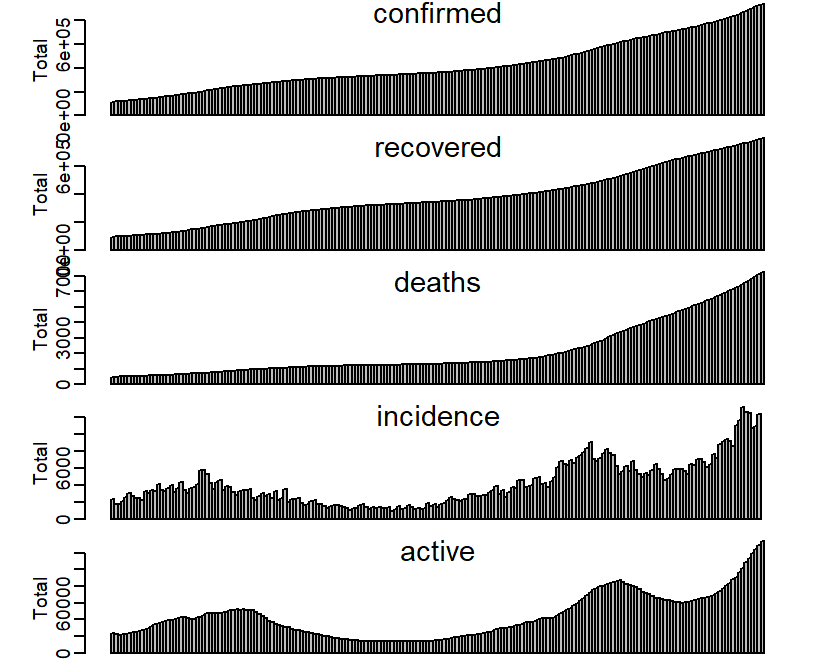
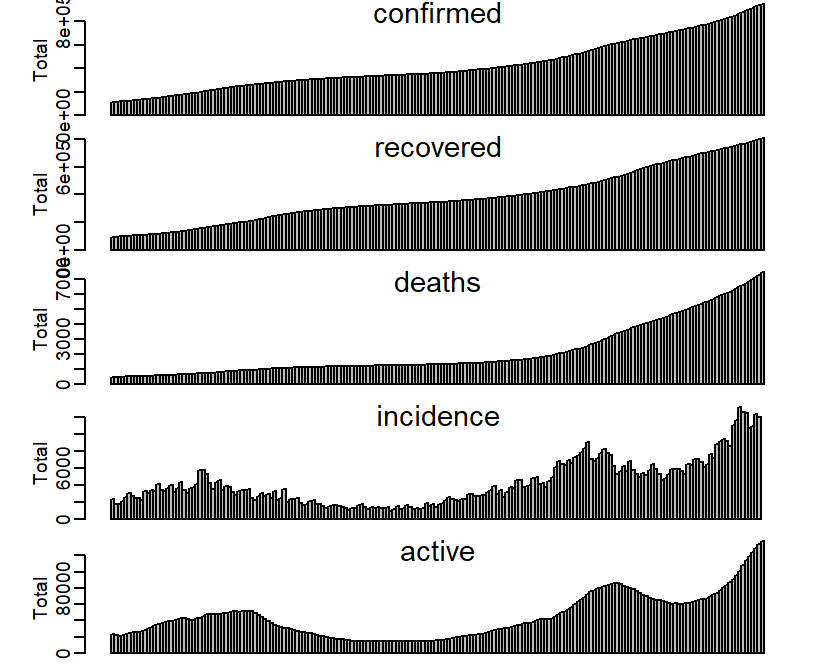
Grammar correction

diff --git a/Data_processing_exporation.html b/Data_processing_exporation.html
@@ -294,9 +294,9 @@ $(document).ready(function () {
 
 <div id="data-processing" class="section level2">
 <h2>Data processing</h2>
-<p>Here we show how to manipulate and visualize the data we can retrieved from <code>COVID19</code> package which is created by <a href="https://covid19datahub.io/index.html" target="_blank">COVID-19 Data Hub</a>. First, we need to install the package <code>COVID19</code>:</p>
+<p>Here we show how to manipulate and visualize the data we retrieved from <code>COVID19</code> package which is created by <a href="https://covid19datahub.io/index.html">COVID-19 Data Hub</a>. First, we need to install the package <code>COVID19</code>:</p>
 <pre><code>install.packages(&quot;COVID19&quot;)</code></pre>
-<p>In this packages, it consisted 190 countries data included Malaysia</p>
+<p>In this package, it consisted 190 countries data included Malaysia</p>
 <pre class="r"><code>library(COVID19)</code></pre>
 <p>In this session, we only cover Malaysia dataset. To retrieve the dataset of Malaysia, we need to use the <code>covid19()</code> function:</p>
 <pre class="r"><code>x &lt;- covid19(&quot;MYS&quot;)#MYS = Malaysia</code></pre>
@@ -319,7 +319,7 @@ $(document).ready(function () {
 ##   }
 ## 
 ## To retrieve citation and metadata of the data sources see ?covid19cite. To hide this message use &#39;verbose = FALSE&#39;.</code></pre>
-<p><a href="https://covid19datahub.io/index.html" target="_blank">COVID-19 Data Hub</a> provided many variable in the datasets, we can check it:</p>
+<p><a href="https://covid19datahub.io/index.html">COVID-19 Data Hub</a> provided many variables in the dataset, we can check it:</p>
 <pre class="r"><code>names(x)</code></pre>
 <pre><code>##  [1] &quot;id&quot;                                  &quot;date&quot;                               
 ##  [3] &quot;vaccines&quot;                            &quot;tests&quot;                              
@@ -339,7 +339,7 @@ $(document).ready(function () {
 ## [31] &quot;administrative_area_level_3&quot;         &quot;latitude&quot;                           
 ## [33] &quot;longitude&quot;                           &quot;key&quot;                                
 ## [35] &quot;key_apple_mobility&quot;                  &quot;key_google_mobility&quot;</code></pre>
-<p>The details for each variable can review at <a href="https://covid19datahub.io/articles/doc/data.html">here</a>. Since the dataset did not provide number of incidence per day, now we need to compute the daily incidence based on the data. As we know the daily number of new cases is total number confirmed cases of today minus total number confirmed cases of yesterday. There are some of missing value on first few data of attribute confirmed, we can assume them as 0 in this scenario:</p>
+<p>The details for each variable can reviewed at <a href="https://covid19datahub.io/articles/doc/data.html">here</a>. Since the dataset did not provide the number of incidence per day, then we need to compute the daily incidence based on the data. As we know the daily number of new cases is defined as the total number of confirmed cases of today minus the total number of confirmed cases of yesterday. Notice that there are some missing values on the first few data of the attribute confirmed, thus, we can assume them as 0 in this scenario:</p>
 <pre class="r"><code>x$confirmed[is.na(x$confirmed)] &lt;- 0</code></pre>
 <p>Hence we can compute using the code below:</p>
 <pre class="r"><code>#Method 1
@@ -349,14 +349,14 @@ for(i in 1:length(x$confirmed)){
   incidence &lt;- append(incidence,temp)
 }
 length(incidence)</code></pre>
-<pre><code>## [1] 546</code></pre>
+<pre><code>## [1] 547</code></pre>
 <pre class="r"><code>length(incidence)==length(x$confirmed)</code></pre>
 <pre><code>## [1] TRUE</code></pre>
 <p>Or we can use the properties of data frame:</p>
 <pre class="r"><code>#Method 2
 incidence &lt;-tail(x$confirmed,-1) - head(x$confirmed,-1)
 length(incidence)</code></pre>
-<pre><code>## [1] 545</code></pre>
+<pre><code>## [1] 546</code></pre>
 <pre class="r"><code>length(incidence)==length(x$confirmed)</code></pre>
 <pre><code>## [1] FALSE</code></pre>
 <p>The only difference between this two method is the length of output. We can leave the output like this or we can insert into the dataframe. Note that the length of every attributes in the data frame must be same. If using method 2, we need to insert NA last of <code>incidence</code> vector:</p>
@@ -425,7 +425,7 @@ names(x)</code></pre>
 <pre class="r"><code>head(x$active)</code></pre>
 <pre><code>## [1] 0 0 0 3 4 4</code></pre>
 <pre class="r"><code>tail(x$active)</code></pre>
-<pre><code>## [1] 108369 114053 119814 124593 128997 133703</code></pre>
+<pre><code>## [1] 114053 119814 124593 128997 133703 137587</code></pre>
 </div>
 </div>
 <div id="data-exploration" class="section level2">
@@ -502,14 +502,14 @@ head(x2021)</code></pre>
 <pre class="r"><code>tail(x2021)</code></pre>
 <pre><code>## # A tibble: 6 x 38
 ## # Groups:   id [1]
-##   id    date       vaccines   tests confirmed recovered deaths  hosp  vent   icu
-##   &lt;chr&gt; &lt;date&gt;        &lt;dbl&gt;   &lt;int&gt;     &lt;dbl&gt;     &lt;dbl&gt;  &lt;dbl&gt; &lt;dbl&gt; &lt;int&gt; &lt;int&gt;
-## 1 MYS   2021-07-15 13215121  1.60e7    880782    765800   6613    NA    NA    NA
-## 2 MYS   2021-07-16 13621884 NA         893323    772542   6728    NA    NA    NA
-## 3 MYS   2021-07-17 14002324 NA         905851    779171   6866    NA    NA    NA
-## 4 MYS   2021-07-18 14347285 NA         916561    784949   7019    NA    NA    NA
-## 5 MYS   2021-07-19 14772221 NA         927533    791388   7148    NA    NA    NA
-## 6 MYS   2021-07-20 15071814 NA         939899    798955   7241    NA    NA    NA
+##   id    date       vaccines tests confirmed recovered deaths  hosp  vent   icu
+##   &lt;chr&gt; &lt;date&gt;        &lt;dbl&gt; &lt;int&gt;     &lt;dbl&gt;     &lt;dbl&gt;  &lt;dbl&gt; &lt;dbl&gt; &lt;int&gt; &lt;int&gt;
+## 1 MYS   2021-07-16 13621884    NA    893323    772542   6728    NA    NA    NA
+## 2 MYS   2021-07-17 14002324    NA    905851    779171   6866    NA    NA    NA
+## 3 MYS   2021-07-18 14347285    NA    916561    784949   7019    NA    NA    NA
+## 4 MYS   2021-07-19 14772221    NA    927533    791388   7148    NA    NA    NA
+## 5 MYS   2021-07-20 15071814    NA    939899    798955   7241    NA    NA    NA
+## 6 MYS   2021-07-21       NA    NA    951884    806857   7440    NA    NA    NA
 ## # ... with 28 more variables: population &lt;int&gt;, school_closing &lt;int&gt;,
 ## #   workplace_closing &lt;int&gt;, cancel_events &lt;int&gt;,
 ## #   gatherings_restrictions &lt;int&gt;, transport_closing &lt;int&gt;,

diff --git a/Fundamentals_R.html b/Fundamentals_R.html
@@ -286,7 +286,7 @@ $(document).ready(function () {
 <li><a href="#installation-r-cran-and-r-studio">Installation R CRAN and R Studio</a></li>
 <li><a href="#r-console">R Console</a><ul>
 <li><a href="#integrating-with-r-the-command-line">Integrating with R: the command line</a></li>
-<li><a href="#r-as-a-caculator">R as a caculator</a></li>
+<li><a href="#r-as-a-calculator">R as a calculator</a></li>
 </ul></li>
 <li><a href="#variables">Variables</a><ul>
 <li><a href="#naming-convention">Naming Convention</a></li>
@@ -307,8 +307,8 @@ $(document).ready(function () {
 
 <div id="installation-r-cran-and-r-studio" class="section level2">
 <h2>Installation R CRAN and R Studio</h2>
-<p>Download and install R from <a href="https://cran.r-project.org/" target="_blank">https://cran.r-project.org/</a></p>
-<p>Download and install RStudio from<a href="https://www.rstudio.com/products/rstudio/download/#download" target="_blank">https://www.rstudio.com/</a></p>
+<p>Download and install R from <a href="https://cran.r-project.org/">https://cran.r-project.org/</a></p>
+<p>Download and install RStudio from<a href="https://www.rstudio.com/products/rstudio/download/#download">https://www.rstudio.com/</a></p>
 </div>
 <div id="r-console" class="section level2">
 <h2>R Console</h2>
@@ -321,8 +321,8 @@ $(document).ready(function () {
 <li><strong>#</strong> means comment, R will ignore the following instruction, it is a notes for other users.</li>
 </ul>
 </div>
-<div id="r-as-a-caculator" class="section level3">
-<h3>R as a caculator</h3>
+<div id="r-as-a-calculator" class="section level3">
+<h3>R as a calculator</h3>
 <pre class="r"><code>13+5</code></pre>
 <pre><code>## [1] 18</code></pre>
 <pre class="r"><code>10-9</code></pre>
@@ -547,11 +547,11 @@ By specific the index or list of indexes of the elements</p>
 <pre class="r"><code>int_vec[c(1,3)]</code></pre>
 <pre><code>## a c 
 ## 8 2</code></pre>
-<p>By specify the list of the names of the elements(provided that names are defined)</p>
+<p>By specifying the list of the names of the elements(provided that names are defined)</p>
 <pre class="r"><code>int_vec[c(&quot;a&quot;,&quot;c&quot;)]</code></pre>
 <pre><code>## a c 
 ## 8 2</code></pre>
-<p>By specify for each element of the object whether want to select it or not with a logical value</p>
+<p>By specifying each element of the object whether want to select it or not with a logical value</p>
 <pre class="r"><code>int_vec[c(T,F,T,F,F)]</code></pre>
 <pre><code>## a c 
 ## 8 2</code></pre>

diff --git a/Model_analysis.html b/Model_analysis.html
@@ -284,7 +284,7 @@ $(document).ready(function () {
 <div id="TOC">
 <ul>
 <li><a href="#before-start">Before Start</a></li>
-<li><a href="#compairing-a-models-prediction-with-data">Compairing a model’s prediction with data</a></li>
+<li><a href="#comparing-a-models-prediction-with-data">Comparing a model’s prediction with data</a></li>
 <li><a href="#estimating-models-parameters">Estimating model’s parameters</a><ul>
 <li><a href="#sum-of-squares">Sum of squares</a></li>
 <li><a href="#sum-of-squares-profile">Sum of squares profile</a></li>
@@ -325,9 +325,9 @@ $(document).ready(function () {
   as.data.frame(out)
 }</code></pre>
 </div>
-<div id="compairing-a-models-prediction-with-data" class="section level2">
-<h2>Compairing a model’s prediction with data</h2>
-<p>We will use our model to simulate transmission of influenza A/H1N1. The flu data we use in this tutorial is retrieve from <code>epimdr</code> packages in R. The data can download from <a href="https://raw.githubusercontent.com/wenhao0117/DMo_2021/main/Materials/flu.txt">https://raw.githubusercontent.com/wenhao0117/DMo_2021/main/Materials/flu.txt</a> or direct read as shown below.</p>
+<div id="comparing-a-models-prediction-with-data" class="section level2">
+<h2>Comparing a model’s prediction with data</h2>
+<p>We will use our model to simulate transmission of influenza A/H1N1. The flu data we use in this tutorial is retrieve from <code>epimdr</code> packages in R. The data can be downloaded from <a href="https://raw.githubusercontent.com/wenhao0117/DMo_2021/main/Materials/flu.txt">https://raw.githubusercontent.com/wenhao0117/DMo_2021/main/Materials/flu.txt</a> or direct read as shown below.</p>
 <p><strong>Introduction of data</strong><br />
 Number of children confined to bed each day during a 1978 outbreak of the reemerging influenza A/H1N1 strain in a boarding school in North England. This subtype of influenza had been absent from human circulation after the A/H2N2 pandemic of 1957 but reemerge (presumably from some laboratory freezer) in 1977. The school had 763 boys of which 512 boys were confined to bed sometime during the outbreak. None of the boys would have had previous exposure to A/H1N1.</p>
 <pre class="r"><code>#install.packages(&quot;epimdr&quot;)

diff --git a/index.html b/index.html
@@ -282,7 +282,7 @@ $(document).ready(function () {
 </div>
 
 
-<p><img src="figures/dr.jpg" width="100" style="display: block; margin: auto;" /></p>
+<p><img src="figures/dr.jpg" width="100" style="display: block; margin: auto auto auto 0;" /></p>
 <p>Welcome to the 7th Disease Modeling Workshop! We are delighted to have you here with us for the next 3 + 1 days. Indeed it will be intensive but I am sure you will benefit from this workshop.</p>
 <p>The Faculty of Computer Science and Information Technology, UNIMAS initiated the Disease Modeling Workshop in 2014 with the aim to bring together researchers in Applied Mathematics, Computer Science and Public Health in one platform to share knowledge and current research activities mainly in facilitating the eradication and control of infectious diseases. Since then, the workshop has become an annual event not only for sharing knowledge but also to gauge research collaboration. However, since the COVID19 pandemic hit us, we had to postpone our 7th run to this year instead of 2020. Despite the challenges we faced during this trying time, we decided to proceed the workshop virtually as we have received few requests for the workshop.</p>
 <p>We shall begin the workshop with some overview of disease models and sharing some experiences in COVID19 model projections we did for the country and state. Then, we provide the fundamentals of R programming language and moving towards using it in solving disease problems. Prior to that, you will be exposed to compartmental modeling on disease transmissions and understand the time-series analysis on disease data. As before, we will deal only on infectious disease transmission from the fundamental formulation of the model to the analysis of the solutions obtained. Additionally, participants are expected to complete a group project of which you will get to present the work probably a few weeks later. This is a great opportunity for the participants to engage in a group research work and deliberate on the outcome with the facilitators.</p>
